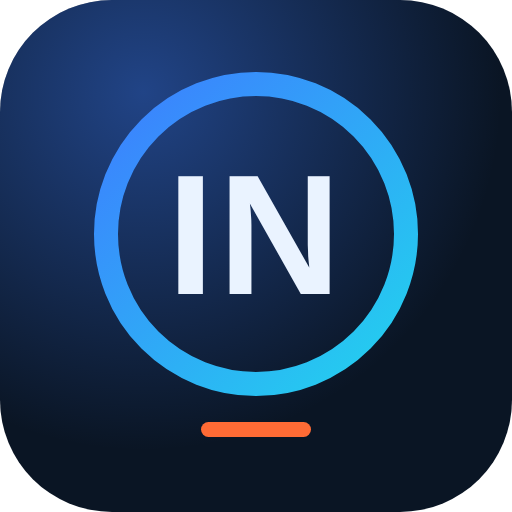
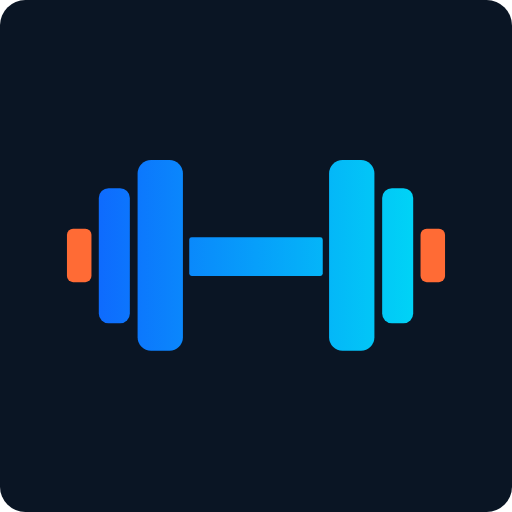
Nouvelle icône : haltère bleu-cyan sur fond navy
Remplace le monogramme « IN » par l'haltère fourni. Le motif est redessiné
en SVG à partir des mesures de l'image source (proportions, rayons,
dégradé) plutôt qu'incorporé en bitmap : net à toutes les tailles et 22 Ko
au lieu de 115 Ko pour le 512.

Deux ajustements pour l'intégration : le fond passe au #0a1524 de l'app,
pour se fondre dans l'écran de démarrage qui utilise cette couleur, et
l'orange reprend le #ff6b35 de la charte. Les deux étaient déjà à un
cheveu des couleurs générées.

- icon.svg, icon-512.png, icon-192.png : carte à coins arrondis
- icon-180.png : carré à bords perdus, iOS applique son propre masque et
  noircirait des coins transparents
- icon-maskable.svg, icon-maskable-512.png : motif réduit à 92 %, il tient
  entièrement dans la zone sûre quel que soit le découpage d'Android

sw.js passe en v4 pour que les téléphones récupèrent les nouvelles icônes.

Vérifié sous Chromium : les 32 contrôles de l'app au vert, et le cycle de
mise à jour v4 → v5 (bandeau, bascule du cache, rechargement unique).

Claude-Session: https://claude.ai/code/session_01SNQT1bBnRLNFqncYgqgChf

diff --git a/docs/masse/sw.js b/docs/masse/sw.js
@@ -3,7 +3,7 @@
    Change la version à chaque modification d'index.html : c'est ce numéro qui
    déclenche l'installation d'un nouveau worker, donc le bandeau « Recharger ».
    ----------------------------------------------------------------------- */
-var VERSION = 'v3';
+var VERSION = 'v4';
 var SHELL   = 'inrun-masse-shell-' + VERSION;   /* l'app elle-même */
 var FONTS   = 'inrun-masse-fonts-' + VERSION;   /* Google Fonts */
 

diff --git a/docs/masse/LISEZMOI.md b/docs/masse/LISEZMOI.md
@@ -56,7 +56,7 @@ capricieux, suspensions arbitraires).
 Après chaque modification d'`index.html`, incrémente la version dans `sw.js` :
 
 ```js
-var VERSION = 'v3';   →   'v4'
+var VERSION = 'v4';   →   'v5'
 ```
 
 Sans ça, le téléphone continue de servir l'ancienne version depuis son cache.
